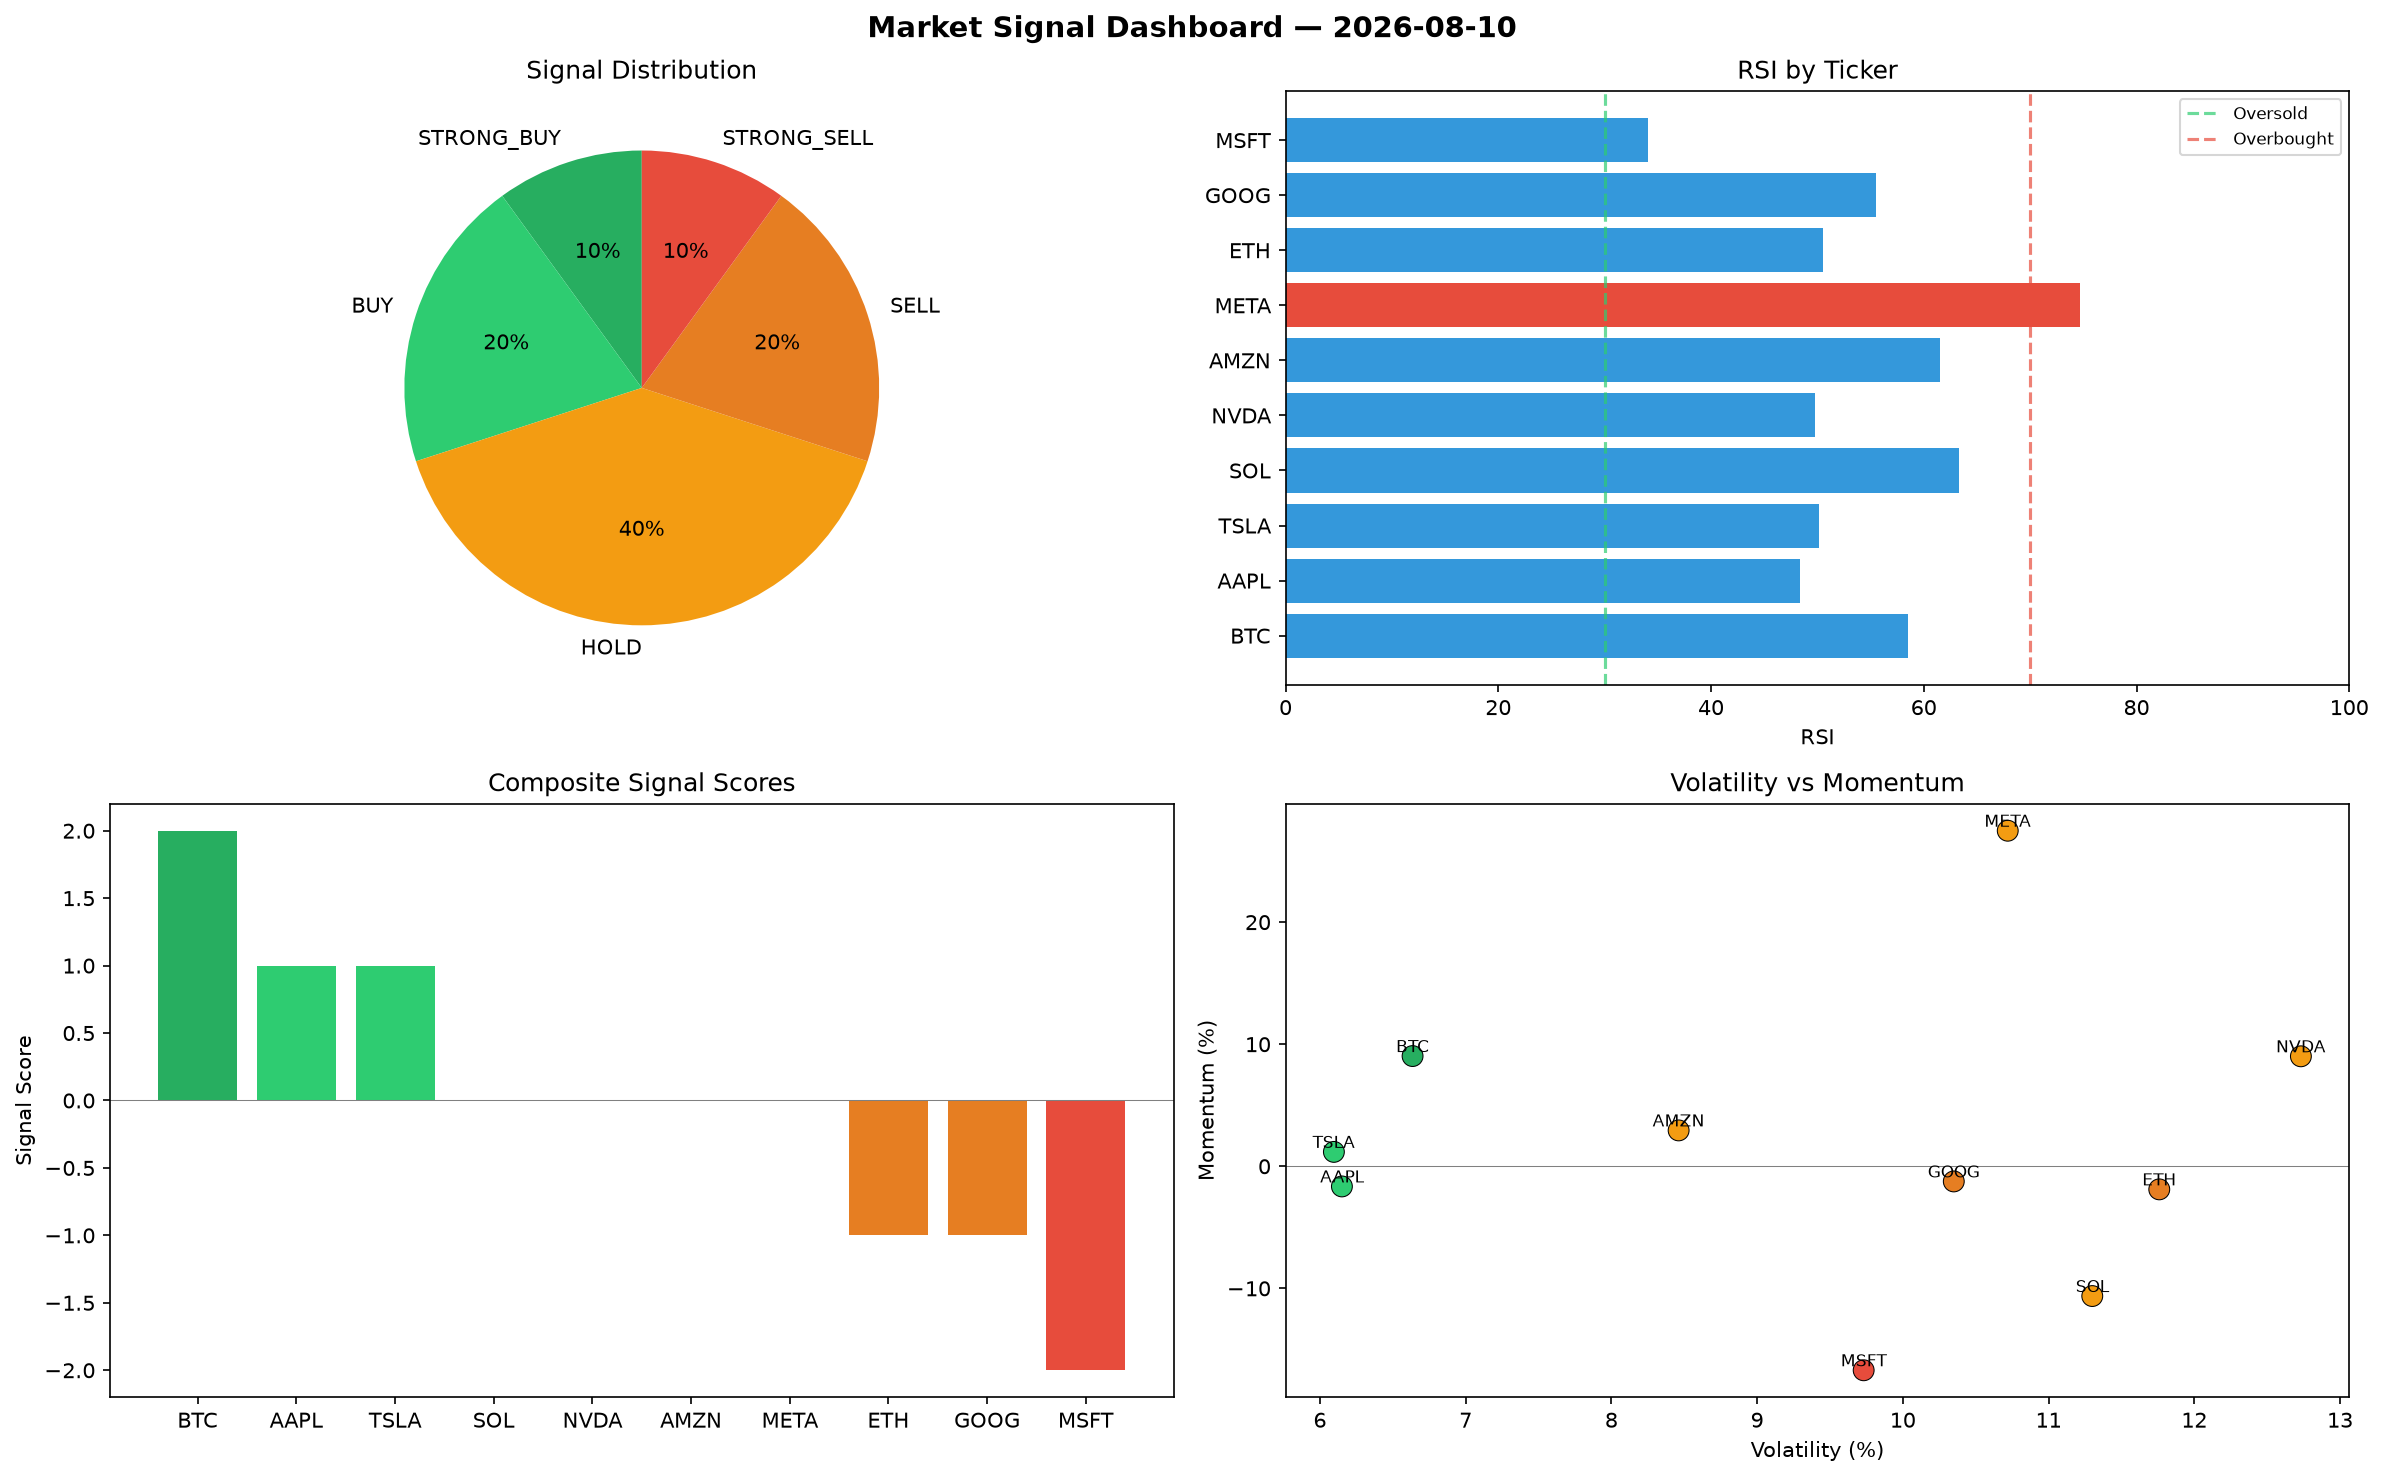
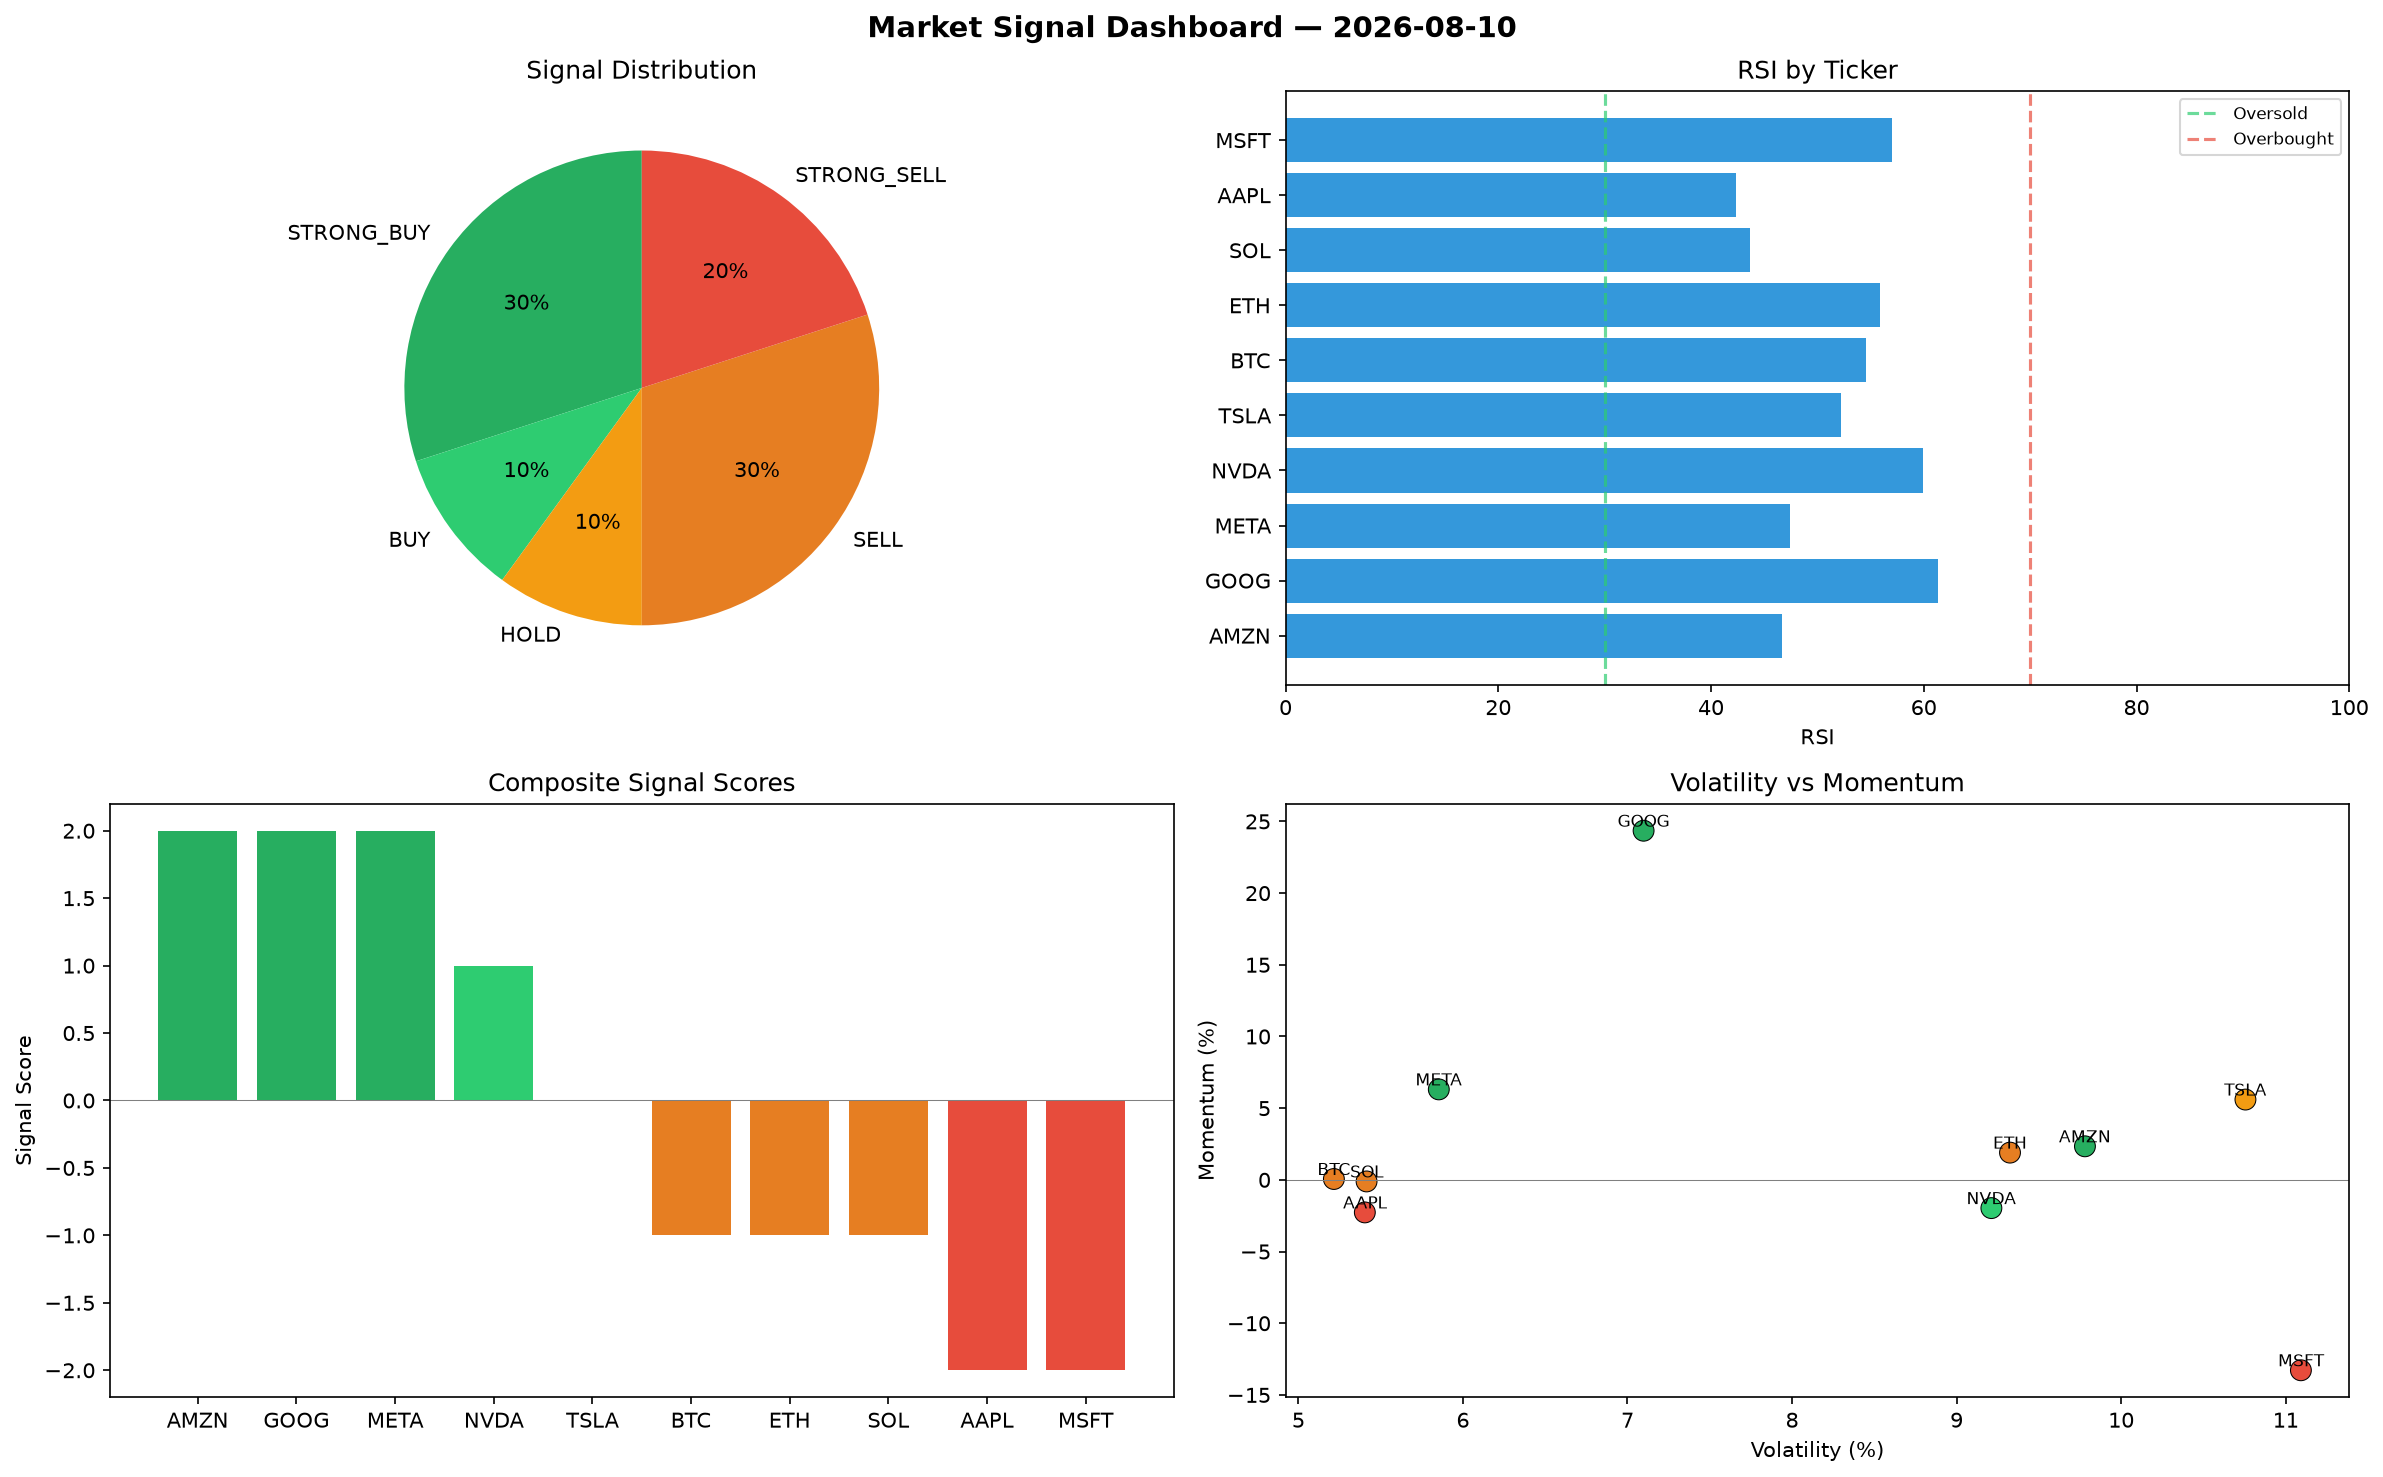
automated-bots: market signals 2026-08-10T15:30

diff --git a/logs/2026-08-10.md b/logs/2026-08-10.md
@@ -1,6 +1,6 @@
 # Market Signal Report — 2026-08-10
 
-**Run ID:** `383d6205c9` | **Buy:** 3 | **Sell:** 3 | **Hold:** 4
+**Run ID:** `beb519d0d6` | **Buy:** 4 | **Sell:** 5 | **Hold:** 1
 
 ![Dashboard](2026-08-10_dashboard.png)
 
@@ -8,28 +8,28 @@
 
 | Ticker | Price | Signal | Score | RSI | Momentum | Confidence |
 |--------|-------|--------|-------|-----|----------|------------|
-| BTC | $1235.28 | **STRONG_BUY** | 2 | 58.54 | 0.0903 | 0.5 |
-| AAPL | $178.71 | **BUY** | 1 | 48.37 | -0.0165 | 0.25 |
-| TSLA | $4521.07 | **BUY** | 1 | 50.11 | 0.0118 | 0.25 |
-| SOL | $2170.49 | **HOLD** | 0 | 63.27 | -0.1063 | 0.0 |
-| NVDA | $2976.97 | **HOLD** | 0 | 49.79 | 0.0901 | 0.0 |
-| AMZN | $5215.36 | **HOLD** | 0 | 61.57 | 0.0294 | 0.0 |
-| META | $4382.95 | **HOLD** | 0 | 74.69 | 0.2749 | 0.0 |
-| ETH | $1601.8 | **SELL** | -1 | 50.56 | -0.0189 | 0.25 |
-| GOOG | $2793.1 | **SELL** | -1 | 55.5 | -0.0124 | 0.25 |
-| MSFT | $3751.05 | **STRONG_SELL** | -2 | 34.07 | -0.1671 | 0.5 |
+| AMZN | $321.83 | **STRONG_BUY** | 2 | 46.7 | 0.0234 | 0.5 |
+| GOOG | $781.31 | **STRONG_BUY** | 2 | 61.38 | 0.2435 | 0.5 |
+| META | $2957.03 | **STRONG_BUY** | 2 | 47.44 | 0.0631 | 0.5 |
+| NVDA | $1169.04 | **BUY** | 1 | 59.92 | -0.0197 | 0.25 |
+| TSLA | $5196.1 | **HOLD** | 0 | 52.26 | 0.056 | 0.0 |
+| BTC | $4396.76 | **SELL** | -1 | 54.59 | 0.0006 | 0.25 |
+| ETH | $4470.81 | **SELL** | -1 | 55.88 | 0.019 | 0.25 |
+| SOL | $3112.25 | **SELL** | -1 | 43.67 | -0.0011 | 0.25 |
+| AAPL | $3768.79 | **STRONG_SELL** | -2 | 42.39 | -0.0227 | 0.5 |
+| MSFT | $2963.7 | **STRONG_SELL** | -2 | 56.97 | -0.1328 | 0.5 |
 
 ## Delta vs Yesterday
 
 | Ticker | Today | Yesterday | Price Change | Signal Changed |
 |--------|-------|-----------|-------------|----------------|
-| BTC | STRONG_BUY | SELL | 📈 40.66% | ⚠ YES |
-| AAPL | BUY | HOLD | 📉 -95.61% | ⚠ YES |
-| TSLA | BUY | SELL | 📈 24.44% | ⚠ YES |
-| SOL | HOLD | HOLD | 📉 -9.06% | — |
-| NVDA | HOLD | HOLD | 📈 53.3% | — |
-| AMZN | HOLD | HOLD | 📈 21.48% | — |
-| META | HOLD | STRONG_SELL | 📈 153.28% | ⚠ YES |
-| ETH | SELL | STRONG_BUY | 📈 157.1% | ⚠ YES |
-| GOOG | SELL | HOLD | 📉 -23.29% | ⚠ YES |
-| MSFT | STRONG_SELL | STRONG_BUY | 📈 201.96% | ⚠ YES |
+| AMZN | STRONG_BUY | HOLD | 📉 -92.5% | ⚠ YES |
+| GOOG | STRONG_BUY | HOLD | 📉 -78.54% | ⚠ YES |
+| META | STRONG_BUY | STRONG_SELL | 📈 70.88% | ⚠ YES |
+| NVDA | BUY | HOLD | 📉 -39.8% | ⚠ YES |
+| TSLA | HOLD | SELL | 📈 43.02% | ⚠ YES |
+| BTC | SELL | SELL | 📈 400.64% | — |
+| ETH | SELL | STRONG_BUY | 📈 617.6% | ⚠ YES |
+| SOL | SELL | HOLD | 📈 30.4% | ⚠ YES |
+| AAPL | STRONG_SELL | HOLD | 📉 -7.39% | ⚠ YES |
+| MSFT | STRONG_SELL | STRONG_BUY | 📈 138.58% | ⚠ YES |
